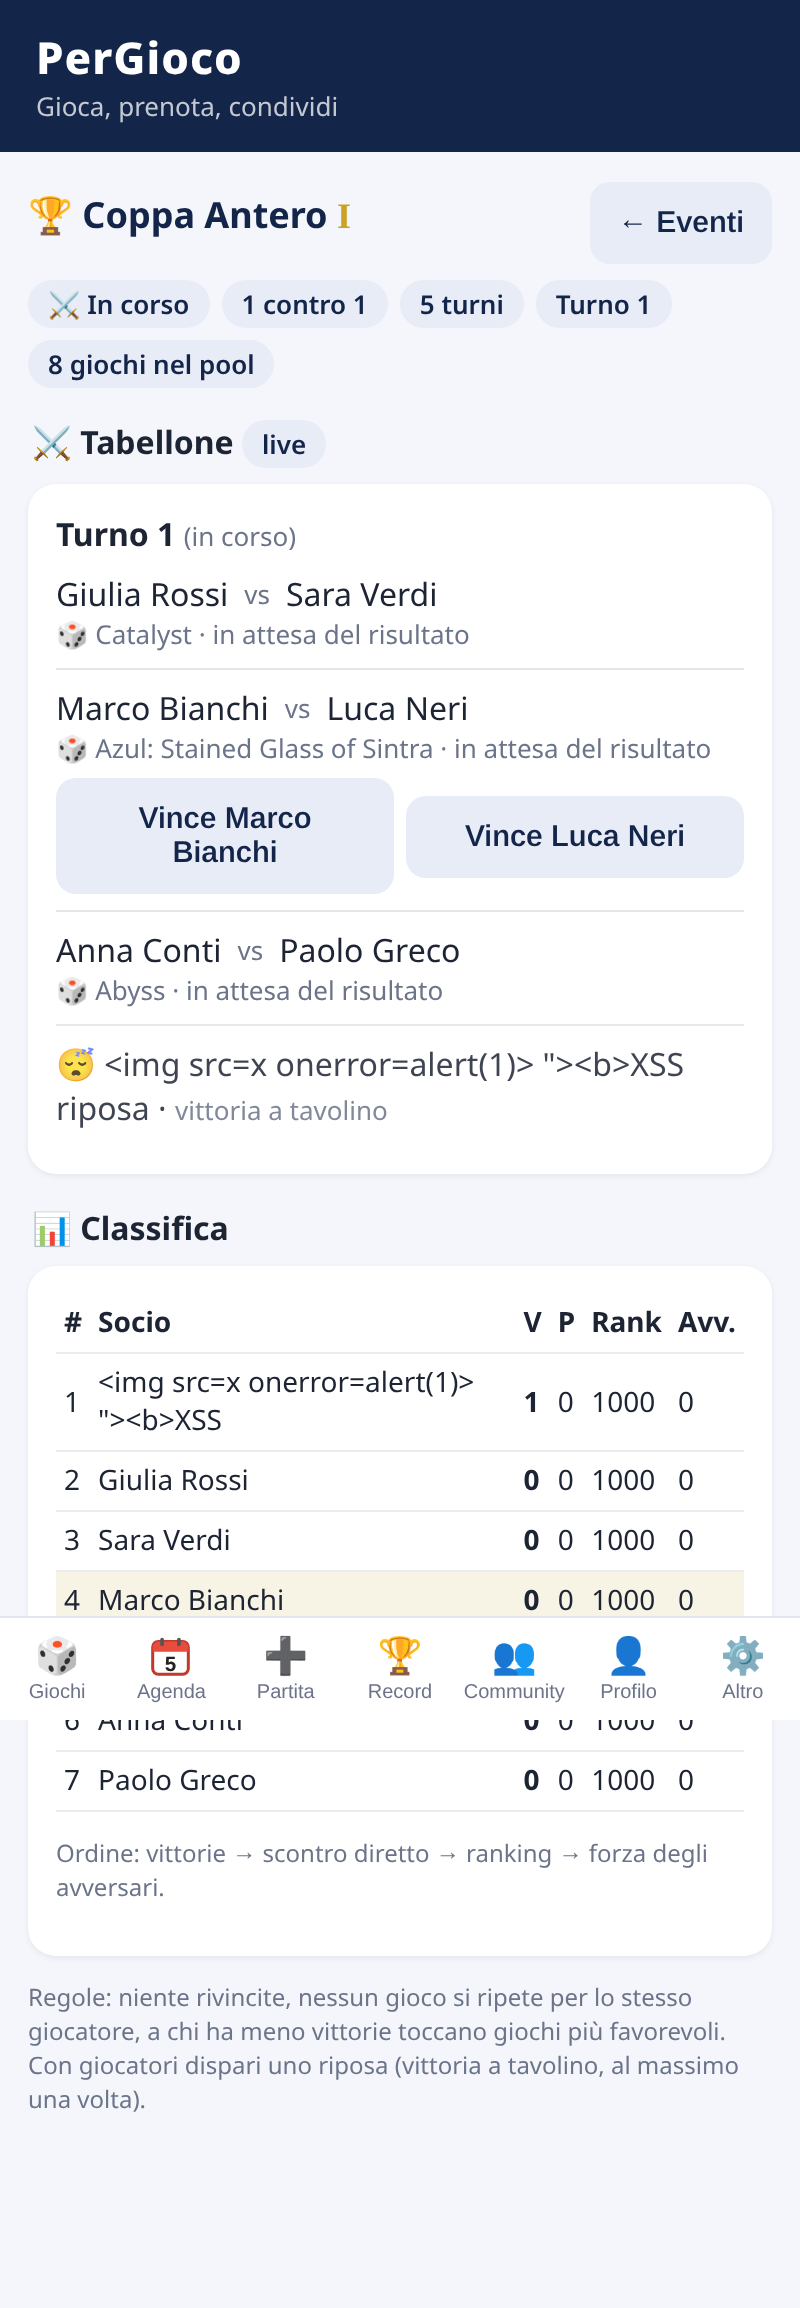
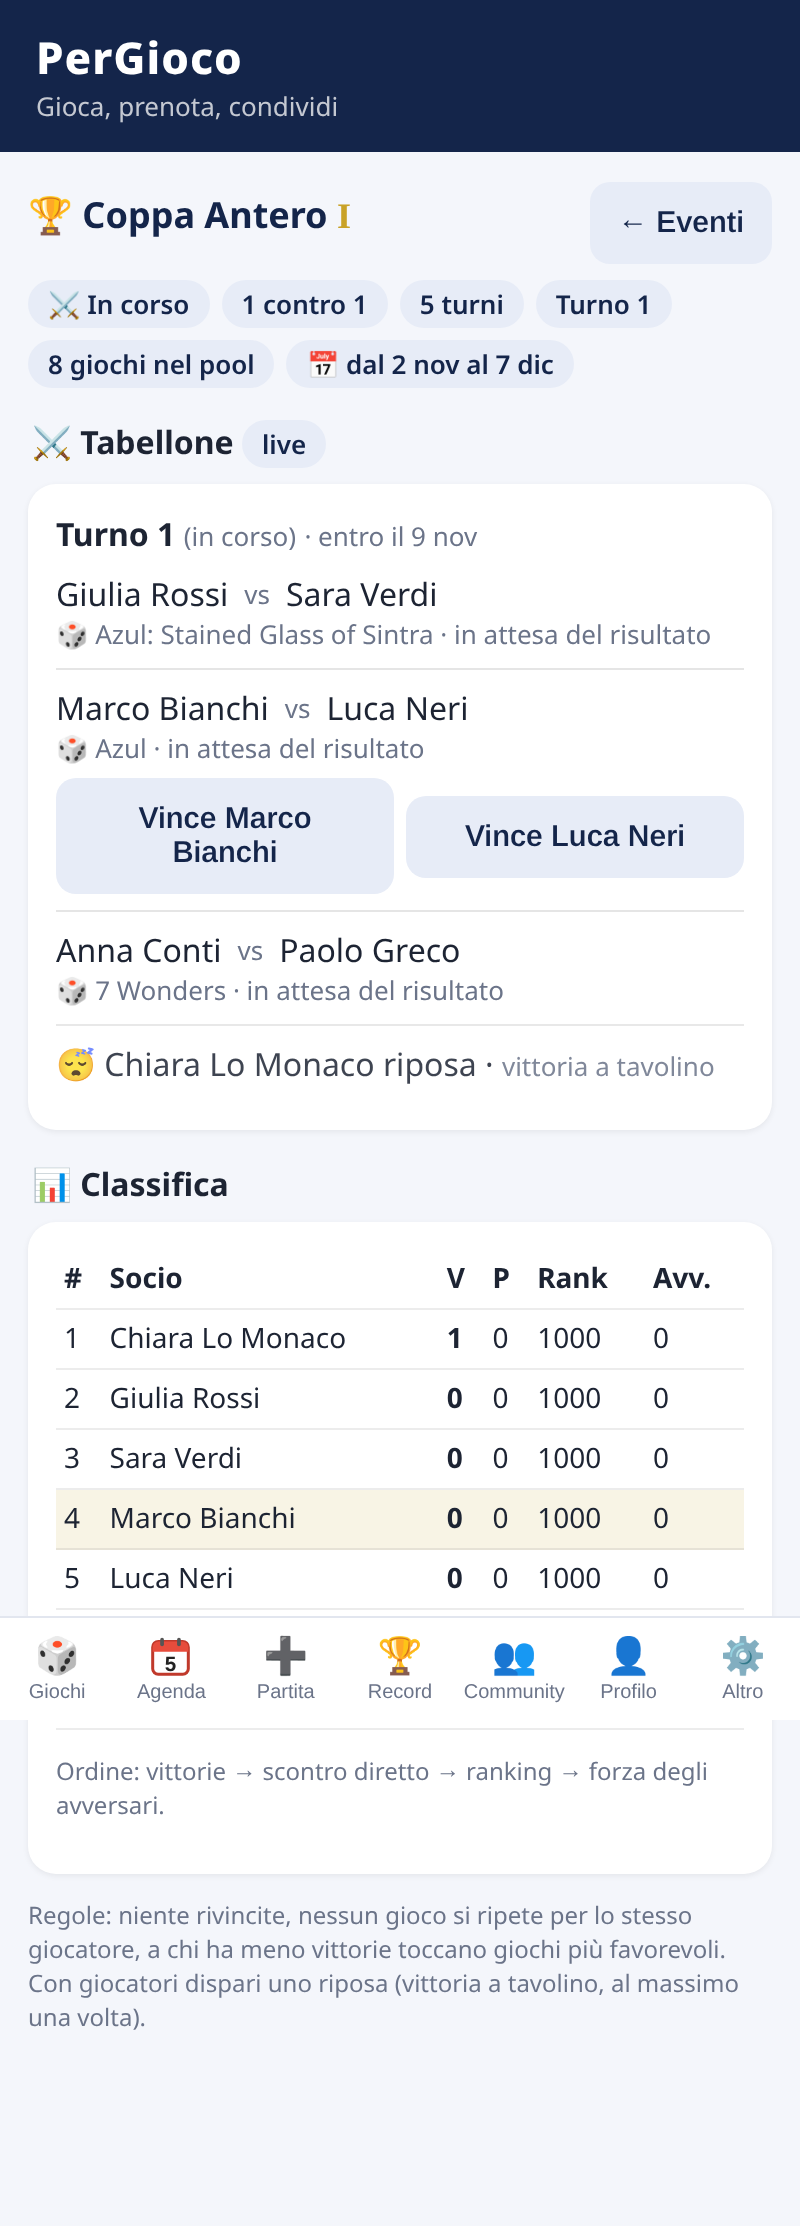
v32: EXP Coppa 50/150/100, durata e scadenze turni, Coppa in bozza solo per staff, fallback immagini rotte e pool allineato

diff --git a/coppa.js b/coppa.js
@@ -19,11 +19,13 @@ BADGES.push(['cpart','🏆','Coppa Antero','Partecipa a una Coppa Antero',s=>s.c
 {const _bs=Badges.stats;Badges.stats=function(k,o){return Object.assign(_bs.call(this,k,o),CP.bstats(k))}}
 {const _xl=XP.load.bind(XP);XP.load=async function(){await _xl();await CP.load()}}
 const cpMsg=e=>String(e&&e.message||e||'Errore').replace(/^.*?ERROR:\s*/,'').slice(0,200);
-async function cpCard(){if(!CP.cl())return'';if(!CP.d)await CP.load();const d=CP.d;if(!d)return'';const c=(d.coppe||[])[0],st=!!d.staff;
+async function cpCard(){if(!CP.cl())return'';if(!CP.d)await CP.load();const d=CP.d;if(!d)return'';const st=!!d.staff,c=(d.coppe||[]).filter(x=>st||x.stato!=='bozza')[0];
  if(!c)return st?`<div class="card cpc"><div class="hrow"><b>🏆 Coppa Antero</b><button class="p" id="cpnew">➕ Crea la prima edizione</button></div><p class="muted">Torneo svizzero 1 contro 1: nessuna rivincita, mai lo stesso gioco due volte.</p></div>`:'';
  return`<div class="card cpc" data-cp="${esc(c.id)}" role="button"><div class="hrow"><b>🏆 Coppa Antero ${esc(CP.rom(c.edizione))}</b><span class="evb t">${esc(CP.STATI[c.stato]||c.stato)}</span></div>
- <p class="muted">${c.stato==='in_corso'?esc(CP.turno(c.turno))+' di '+c.turni:c.turni+' turni'} · ${c.iscritti} iscritt${c.iscritti==1?'o':'i'}${c.stato==='concluso'&&c.campione?' · 👑 '+cpNome(c.campione):''}</p>
+ <p class="muted">${cpDur(c)?'📅 '+esc(cpDur(c))+' · ':''}${c.stato==='in_corso'?esc(CP.turno(c.turno))+' di '+c.turni:c.turni+' turni'} · ${c.iscritti} iscritt${c.iscritti==1?'o':'i'}${c.stato==='concluso'&&c.campione?' · 👑 '+cpNome(c.campione):''}</p>
  ${st&&c.stato==='concluso'?'<button class="s" id="cpnew">➕ Nuova edizione</button>':''}</div>`}
+const cpD=d=>{const x=new Date(d+'T12:00:00');return isNaN(x)?'':x.toLocaleDateString('it-IT',{day:'numeric',month:'short'})};
+const cpDur=c=>c.data_inizio&&c.data_fine?`dal ${cpD(c.data_inizio)} al ${cpD(c.data_fine)}`:c.data_inizio?`dal ${cpD(c.data_inizio)}`:c.data_fine?`fino al ${cpD(c.data_fine)}`:'';
 let _cpMs=[];const cpNome=id=>{const m=_cpMs.find(m=>m.id===id);return m?nmH(m):'<span class="muted">Socio</span>'};
 async function cpBind(){V.querySelectorAll('[data-cp]').forEach(e=>e.onclick=ev=>{if(ev.target.closest('button'))return;window._cpId=e.dataset.cp;go('coppa')});
  const n=$('#cpnew');if(n)n.onclick=async()=>{try{const id=await CP.rpc('coppa_crea',{p_turni:3,p_pool:[],p_formato:'1v1'});await CP.load();window._cpId=id;go('coppa')}catch(e){toast(cpMsg(e))}}}
@@ -40,6 +42,8 @@ views.coppa=async function(){clearInterval(window._cpT);const id=window._cpId||(
   <label>Turni (max 5)</label><select id="cpt">${[1,2,3,4,5].map(n=>`<option value="${n}"${n===c.turni?' selected':''}${n<cur?' disabled':''}>${n} — ${esc(CP.turno(n).replace('Turno ',''))}</option>`).join('')}</select>
   <label>Pool di giochi <span class="muted" id="cpcnt"></span></label><input id="cpq" placeholder="Cerca gioco…">
   <div class="cppool">${gs.filter(okG).sort((a,b)=>a.name.localeCompare(b.name,'it')).map(g=>`<label class="cpg"><input type="checkbox" value="${esc(g.id)}"${pool.includes(g.id)?' checked':''}${c.stato==='in_corso'&&pool.includes(g.id)?' disabled':''}> ${esc(g.name)}</label>`).join('')}</div>
+  <label>Durata <span class="muted">(facoltativa: la Coppa può durare giorni o settimane)</span></label><div class="row"><input type="date" id="cpdi" value="${esc(c.data_inizio||'')}" aria-label="Data inizio"><input type="date" id="cpdf" value="${esc(c.data_fine||'')}" aria-label="Data fine"></div>
+  <label>Scadenza dei turni <span class="muted">(facoltativa)</span></label><div class="cpsc">${Array.from({length:5},(_,k)=>`<label class="cpsl"${k>=c.turni?' hidden':''}>${esc(CP.turno(k+1))}<input type="date" data-sc="${k}" value="${esc((c.scadenze||[])[k]||'')}"></label>`).join('')}</div>
   <p class="warn" id="cpwarn" hidden></p><button class="p" id="cpsave">💾 Salva configurazione</button>${c.stato!=='in_corso'?' <button class="s" id="cpdel">🗑 Elimina</button>':''}</details>`:'';
  const myIn=me&&v.iscritti.includes(me);
  const isc=`<div class="card"><b>✍ Iscritti (${v.iscritti.length})</b><div class="chips" style="margin-top:6px">${v.iscritti.map(m=>`<span class="chip">${nm(m)}</span>`).join('')||'<span class="muted">Ancora nessuno.</span>'}</div>
@@ -50,14 +54,14 @@ views.coppa=async function(){clearInterval(window._cpT);const id=window._cpId||(
   const can=i.turno===cur&&(st||(!i.vincitore&&me&&(me===i.a||me===i.b)));const w=x=>i.vincitore===x?' cpw':i.vincitore?' cpl':'';
   return`<div class="cpm"><div class="cpv"><span class="cpp${w(i.a)}">${nm(i.a)}</span><span class="muted">vs</span><span class="cpp${w(i.b)}">${nm(i.b)}</span></div><div class="muted">🎲 ${gn(i.game_id)}${i.vincitore?' · 🏆 vince '+nm(i.vincitore):i.turno===cur?' · in attesa del risultato':''}</div>
   ${can?`<div class="row cpbtn"><button class="s" data-res="${esc(i.id)}" data-w="${esc(i.a)}">Vince ${esc(memberName(_cpMs.find(m=>m.id===i.a)||{}))}</button><button class="s" data-res="${esc(i.id)}" data-w="${esc(i.b)}">Vince ${esc(memberName(_cpMs.find(m=>m.id===i.b)||{}))}</button></div>`:''}</div>`};
- const tab=turni.length?`<h3 class="rsec">⚔ Tabellone${c.stato==='in_corso'?' <span class="evb t">live</span>':''}</h3>${turni.map(t=>`<div class="card"><b>${esc(CP.turno(t))}</b>${t===cur?' <span class="muted">(in corso)</span>':''}${inc.filter(i=>i.turno===t).map(row).join('')}</div>`).join('')}`:'';
+ const tab=turni.length?`<h3 class="rsec">⚔ Tabellone${c.stato==='in_corso'?' <span class="evb t">live</span>':''}</h3>${turni.map(t=>`<div class="card"><b>${esc(CP.turno(t))}</b>${t===cur?' <span class="muted">(in corso)</span>':''}${(c.scadenze||[])[t-1]?` <span class="muted">· entro il ${esc(cpD(c.scadenze[t-1]))}</span>`:''}${inc.filter(i=>i.turno===t).map(row).join('')}</div>`).join('')}`:'';
  const cla=v.classifica.length&&c.stato!=='bozza'&&c.stato!=='iscrizioni'?`<h3 class="rsec">📊 Classifica${c.stato==='concluso'?' finale':''}</h3><div class="card"><table class="cpt"><tr><th>#</th><th>Socio</th><th title="Vittorie">V</th><th title="Sconfitte">P</th><th title="Ranking (parte da 1000)">Rank</th><th title="Forza avversari (Buchholz)">Avv.</th></tr>
   ${v.classifica.map(r=>`<tr class="${r.member_id===me?'me':''}"><td>${r.pos<=3&&c.stato==='concluso'?['🥇','🥈','🥉'][r.pos-1]:r.pos}</td><td>${nm(r.member_id)}</td><td><b>${r.vinte}</b></td><td>${r.perse}</td><td>${r.ranking}</td><td>${r.buchholz}</td></tr>`).join('')}</table>
   <p class="muted" style="font-size:12px">Ordine: vittorie → scontro diretto → ranking → forza degli avversari.</p></div>`:'';
  const allIn=cur&&!inc.some(i=>i.turno===cur&&!i.vincitore);
  const act=st?(c.stato==='bozza'?`<button class="p" id="cpapri"${pool.length<c.turni?' disabled':''}>✍ Apri iscrizioni</button>`:c.stato==='iscrizioni'?`<button class="p" id="cpavvia"${v.iscritti.length<2?' disabled':''}>⚔ Avvia la Coppa (${v.iscritti.length} iscritti)</button>`:c.stato==='in_corso'?`<button class="p" id="cpnext"${allIn?'':' disabled'}>${c.turno<c.turni?'➡ Genera '+esc(CP.turno(c.turno+1)):'👑 Concludi e incorona'}</button>${allIn?'':'<p class="muted">Servono tutti i risultati del turno.</p>'}`:''):'';
  V.innerHTML=`<div class="hrow"><h2>🏆 Coppa Antero <span class="cpn">${esc(CP.rom(c.edizione))}</span></h2><button class="s" id="cpback">← Eventi</button></div>
- <div class="evtags"><span class="evb t">${esc(CP.STATI[c.stato]||c.stato)}</span><span class="evb t">1 contro 1</span><span class="evb t">${c.turni} turni</span>${c.stato==='in_corso'?`<span class="evb t">${esc(CP.turno(c.turno))}</span>`:''}<span class="evb t">${pool.length} giochi nel pool</span></div>
+ <div class="evtags"><span class="evb t">${esc(CP.STATI[c.stato]||c.stato)}</span><span class="evb t">1 contro 1</span><span class="evb t">${c.turni} turni</span>${c.stato==='in_corso'?`<span class="evb t">${esc(CP.turno(c.turno))}</span>`:''}<span class="evb t">${pool.length} giochi nel pool</span>${cpDur(c)?`<span class="evb t">📅 ${esc(cpDur(c))}</span>`:''}</div>
  ${c.stato==='concluso'&&c.campione?`<div class="card cpking">👑 <b>${nm(c.campione)}</b> incoronato da Sant'Antero<div class="muted">Campione della Coppa Antero ${esc(CP.rom(c.edizione))}</div></div>`:''}
  ${act?`<div class="card">${act}</div>`:''}${cfg}${tab}${cla}${c.stato!=='in_corso'&&c.stato!=='concluso'||!turni.length?isc:''}
  <p class="muted" style="font-size:12px">Regole: niente rivincite, nessun gioco si ripete per lo stesso giocatore, a chi ha meno vittorie toccano giochi più favorevoli. Con giocatori dispari uno riposa (vittoria a tavolino, al massimo una volta).</p>`;
@@ -70,10 +74,13 @@ views.coppa=async function(){clearInterval(window._cpT);const id=window._cpId||(
  if($('#cpavvia'))$('#cpavvia').onclick=()=>confirm('Avviare la Coppa? Le iscrizioni si chiudono e parte il primo turno.')&&run(()=>CP.rpc('coppa_avvia',{p:c.id}),'Si parte! ⚔');
  if($('#cpnext'))$('#cpnext').onclick=()=>run(()=>CP.rpc('coppa_avanza',{p:c.id}),c.turno<c.turni?'Nuovo turno generato':"👑 Incoronato da Sant'Antero!");
  if($('#cpdel'))$('#cpdel').onclick=()=>confirm('Eliminare questa Coppa?')&&run(async()=>{await CP.rpc('coppa_elimina',{p:c.id});window._cpId=null;go('eventi')},'Coppa eliminata');
- if($('#cpsave')){const sel=()=>[...V.querySelectorAll('.cppool input:checked')].map(i=>i.value),chk=()=>{const n=sel().length,t=+$('#cpt').value,w=$('#cpwarn');$('#cpcnt').textContent=`(${n} selezionati)`;w.hidden=n>=t;w.textContent=`⚠ Il pool ha ${n} giochi ma i turni sono ${t}: servono almeno ${t} giochi, perché un gioco non si ripete mai per lo stesso giocatore.`};
+ if($('#cpsave')){const sel=()=>[...V.querySelectorAll('.cppool input:checked')].map(i=>i.value),chk=()=>{const n=sel().length,t=+$('#cpt').value,w=$('#cpwarn');$('#cpcnt').textContent=`(${n} selezionati)`;w.hidden=n>=t;V.querySelectorAll('.cpsl').forEach((l,k)=>l.hidden=k>=t);w.textContent=`⚠ Il pool ha ${n} giochi ma i turni sono ${t}: servono almeno ${t} giochi, perché un gioco non si ripete mai per lo stesso giocatore.`};
   V.querySelectorAll('.cppool input,#cpt').forEach(i=>i.onchange=chk);chk();
   $('#cpq').oninput=e=>{const q=e.target.value.toLowerCase();V.querySelectorAll('.cpg').forEach(l=>l.hidden=q&&!l.textContent.toLowerCase().includes(q))};
-  $('#cpsave').onclick=()=>run(()=>CP.rpc('coppa_config',{p:c.id,p_turni:+$('#cpt').value,p_pool:sel(),p_formato:'1v1'}),'Configurazione salvata')}
+  $('#cpsave').onclick=()=>run(async()=>{const di=$('#cpdi').value||null,df=$('#cpdf').value||null;if(di&&df&&df<di)throw new Error('La data di fine deve essere uguale o successiva all\'inizio');
+   await CP.rpc('coppa_config',{p:c.id,p_turni:+$('#cpt').value,p_pool:sel(),p_formato:'1v1'});
+   const t=+$('#cpt').value,sc=[...V.querySelectorAll('[data-sc]')].slice(0,t).map(i=>i.value||null);while(sc.length&&!sc[sc.length-1])sc.pop();
+   await CP.rpc('coppa_date',{p:c.id,p_inizio:di,p_fine:df,p_scadenze:sc})},'Configurazione salvata')}
  if(c.stato==='in_corso')window._cpT=setInterval(()=>{if(window._cur!=='coppa'){clearInterval(window._cpT);return}if(!document.activeElement||document.activeElement===document.body)re()},20000)};
 // Record: top 5 dell'ultima Coppa (fino alla prossima), più Coppe vinte, albo d'oro
 const _rec=views.record;views.record=async(...a)=>{await _rec(...a);if(!CP.cl())return;if(!CP.d)await CP.load();const d=CP.d;if(!d||window._cur!=='record')return;

diff --git a/xp.js b/xp.js
@@ -15,7 +15,7 @@ const lv=id=>{const k=cpCamp(id)?' <span class="lv lvchamp" title="Campione in c
 const champH=(id,h)=>cpCamp(id)?`<span class="champ">${h}</span>`:h;
 const nmH=m=>champH(m&&m.id,esc(memberName(m)))+(m?lv(m.id):'');
 const lbH=(x,ms)=>champH(x&&x.memberId,esc(Stats.label(x,ms)))+(x&&x.memberId?lv(x.memberId):'');
-const XP_SRC=[['partite','🎲 Partite',10],['vittorie','🏆 Vittorie',5],['serate','🌙 Serate',15],['eventi','🎟 Eventi (presente)',25],['tavoli','🏠 Tavoli ospitati e giocati',20],['giochi_nuovi','🧩 Giochi diversi',10],['sfide','⚖ Sfide',10],['sfide_vinte','🥇 Sfide vinte',5],['sfavorito','🐢 Vinte da sfavorito',15],['coppa','🏆 Coppa Antero',20],['coppa_campione','👑 Campione Coppa Antero',50],['badge','🏅 Badge',30]];
+const XP_SRC=[['partite','🎲 Partite',10],['vittorie','🏆 Vittorie',5],['serate','🌙 Serate',15],['eventi','🎟 Eventi (presente)',25],['tavoli','🏠 Tavoli ospitati e giocati',20],['giochi_nuovi','🧩 Giochi diversi',10],['sfide','⚖ Sfide',10],['sfide_vinte','🥇 Sfide vinte',5],['sfavorito','🐢 Vinte da sfavorito',15],['coppa','🏆 Coppa Antero',50],['coppa_campione','👑 Campione Coppa Antero',150],['badge','🏅 Badge',30]];
 function xpCard(id){const r=XP.map[id];if(!r)return'';const i=lvInfo(r.level),a=xpFor(r.level),b=xpFor(r.level+1),pc=Math.round((r.xp-a)/(b-a)*100),d=r.dettaglio||{};
  return`<div class="card xpc"><div class="row" style="align-items:center;justify-content:space-between"><div><span class="lv lvb" style="background:${i.color}">Lv ${r.level}</span> <b style="color:${i.color}">${i.title}</b></div><b>${r.xp} XP</b></div>
  <div class="xpbar"><i style="width:${pc}%;background:${i.color}"></i></div><div class="muted" style="font-size:12px">${b-r.xp} XP al livello ${r.level+1}</div>

diff --git a/eventi.js b/eventi.js
@@ -52,7 +52,7 @@ async function eventi(){navSerata();
 async function evDetail(e,p,i){const staff=adminMode(),ms=await DB.members(),mn=id=>{const m=ms.find(m=>m.id===id);return m?memberName(m):'Socio'};
  i=i||await EV.info(e.id).catch(()=>null);const aperto=!e.annullato&&new Date(e.chiusura)>new Date(),attiva=p&&ATTIVE.includes(p.stato);
  const nomi=(i&&i.nomi||[]).map(n=>esc(mn(n.member_id))+lv(n.member_id)+(n.ospite?' <span class="muted">+1 ospite</span>':''));
- const o=openPanel(`${safeUrl(e.immagine)?`<img class="evimg big" src="${esc(safeUrl(e.immagine))}" alt="Locandina" referrerpolicy="no-referrer">`:''}<h3>${esc(e.titolo)}</h3>
+ const o=openPanel(`${safeUrl(e.immagine)?`<img class="evimg big" src="${esc(safeUrl(e.immagine))}" alt="" referrerpolicy="no-referrer">`:''}<h3>${esc(e.titolo)}</h3>
  <p>📅 <b>${esc(evData(e.inizio))}</b>${e.luogo?`<br>📍 ${esc(e.luogo)}`:''}<br>⏰ Prenotazioni fino a ${esc(evData(e.chiusura))}</p>
  ${e.descrizione?`<p class="evdesc">${esc(e.descrizione)}</p>`:''}
  <div class="evtags">${e.annullato?'<span class="evb off">Evento annullato</span>':''}${e.torneo?'<span class="evb t">🏆 Torneo</span>':''}${e.solo_soci?'<span class="evb t">Solo soci in regola con la quota</span>':'<span class="evb t">Aperto a tutti</span>'}${e.ospiti?'<span class="evb t">Ospiti ammessi (max 1)</span>':''}${i?`<span class="evb t">${i.occupati}/${e.posti} posti${i.attesa?` · ${i.attesa} in lista d'attesa`:''}</span>`:''}</div>

diff --git a/styles.css b/styles.css
@@ -235,3 +235,6 @@ body.antopen{overflow:hidden}
 .cppool{max-height:240px;overflow:auto;display:grid;grid-template-columns:repeat(auto-fill,minmax(160px,1fr));gap:4px;margin:6px 0}.cpg{display:flex;gap:6px;align-items:center;font-size:14px}
 table.cpt{width:100%;border-collapse:collapse;font-size:14px}table.cpt th,table.cpt td{padding:5px 4px;text-align:left;border-bottom:1px solid rgba(127,127,127,.15)}table.cpt tr.me{background:rgba(201,162,39,.12)}
 .cptop{margin:6px 0 0 0;padding-left:0;list-style:none}.cptop li{padding:3px 0}
+
+.cpg input{width:auto;flex:none;margin:0}.cpg{line-height:1.2;padding:3px 0}.cpsc{display:grid;grid-template-columns:1fr 1fr;gap:6px}.cpsl{font-size:13px;display:flex;flex-direction:column;gap:2px}
+img.imgko{display:none!important}

diff --git a/app.js b/app.js
@@ -1,4 +1,6 @@
 const romeToday=()=>new Intl.DateTimeFormat('en-CA',{timeZone:'Europe/Rome'}).format(new Date());
+// immagini non caricabili (cover, locandine, icone): si nascondono invece di mostrare l'icona rotta o il testo alternativo
+document.addEventListener('error',e=>{const t=e.target;if(t&&t.tagName==='IMG')t.classList.add('imgko')},true);
 const START=location.hash;
 const $=s=>document.querySelector(s),V=$('#view');
 const esc=s=>String(s??'').replace(/[&<>"']/g,c=>({'&':'&amp;','<':'&lt;','>':'&gt;','"':'&quot;',"'":'&#39;'}[c]));
